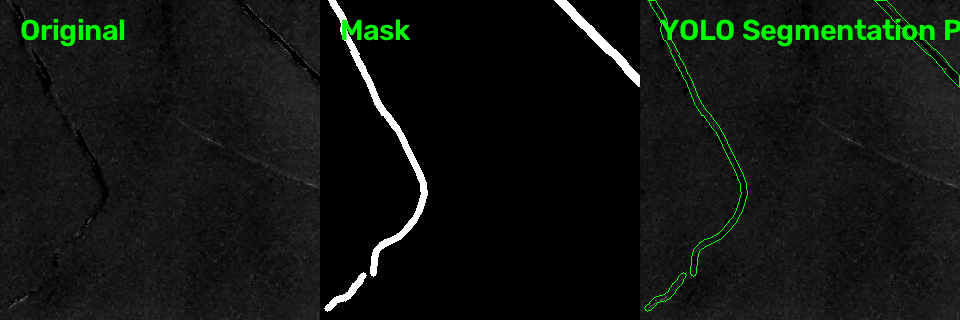
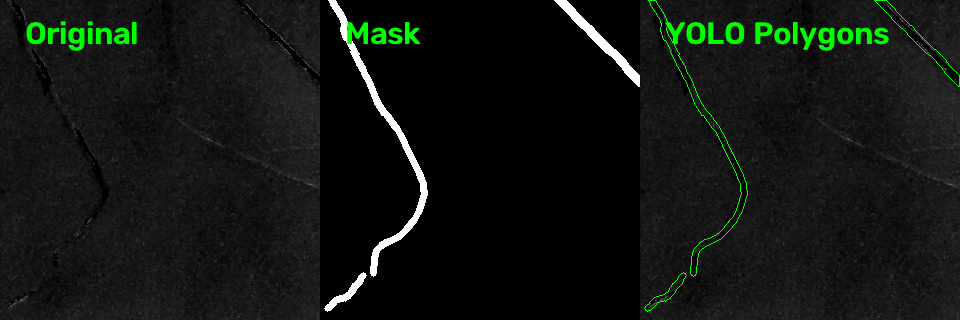
Visualization changed font scale and thickness from plots

Changed region(s): [[0.6875, 0.0625, 1.0, 0.1562], [0.0, 0.0625, 0.1562, 0.1562], [0.3438, 0.0625, 0.4375, 0.1562]]

diff --git a/YOLOv16/src/utils/visualization.py b/YOLOv16/src/utils/visualization.py
@@ -10,23 +10,12 @@ def draw_title(
     image: np.ndarray,
     text: str,
 ) -> None:
-    """Draw a scalable green title with a black outline in-place."""
+    """Draw a scalable green title"""
 
-    font_scale = max(1.5, image.shape[0] / 180)
-    thickness = max(2, int(font_scale * 2))
+    font_scale = max(1.0, image.shape[0] / 300)
+    thickness = max(1, int(font_scale * 2.0))
     text_x = 25
-    text_y = int(30 + 20 * font_scale)
-
-    cv2.putText(
-        image,
-        text,
-        (text_x, text_y),
-        cv2.FONT_HERSHEY_SIMPLEX,
-        font_scale,
-        (0, 0, 0),
-        thickness + 3,
-        cv2.LINE_AA,
-    )
+    text_y = int(25 + 18 * font_scale)
 
     cv2.putText(
         image,

diff --git a/YOLOv16/src/generate_dataset_tiled_seg.py b/YOLOv16/src/generate_dataset_tiled_seg.py
@@ -120,7 +120,7 @@ def visualize_random_samples(
 
         draw_title(image, "Original")
         draw_title(mask_visualization, "Mask")
-        draw_title(polygon_image, "YOLO Segmentation Polygons")
+        draw_title(polygon_image, "YOLO Polygons")
 
         comparison = cv2.hconcat([image, mask_visualization, polygon_image])
         cv2.imwrite(
